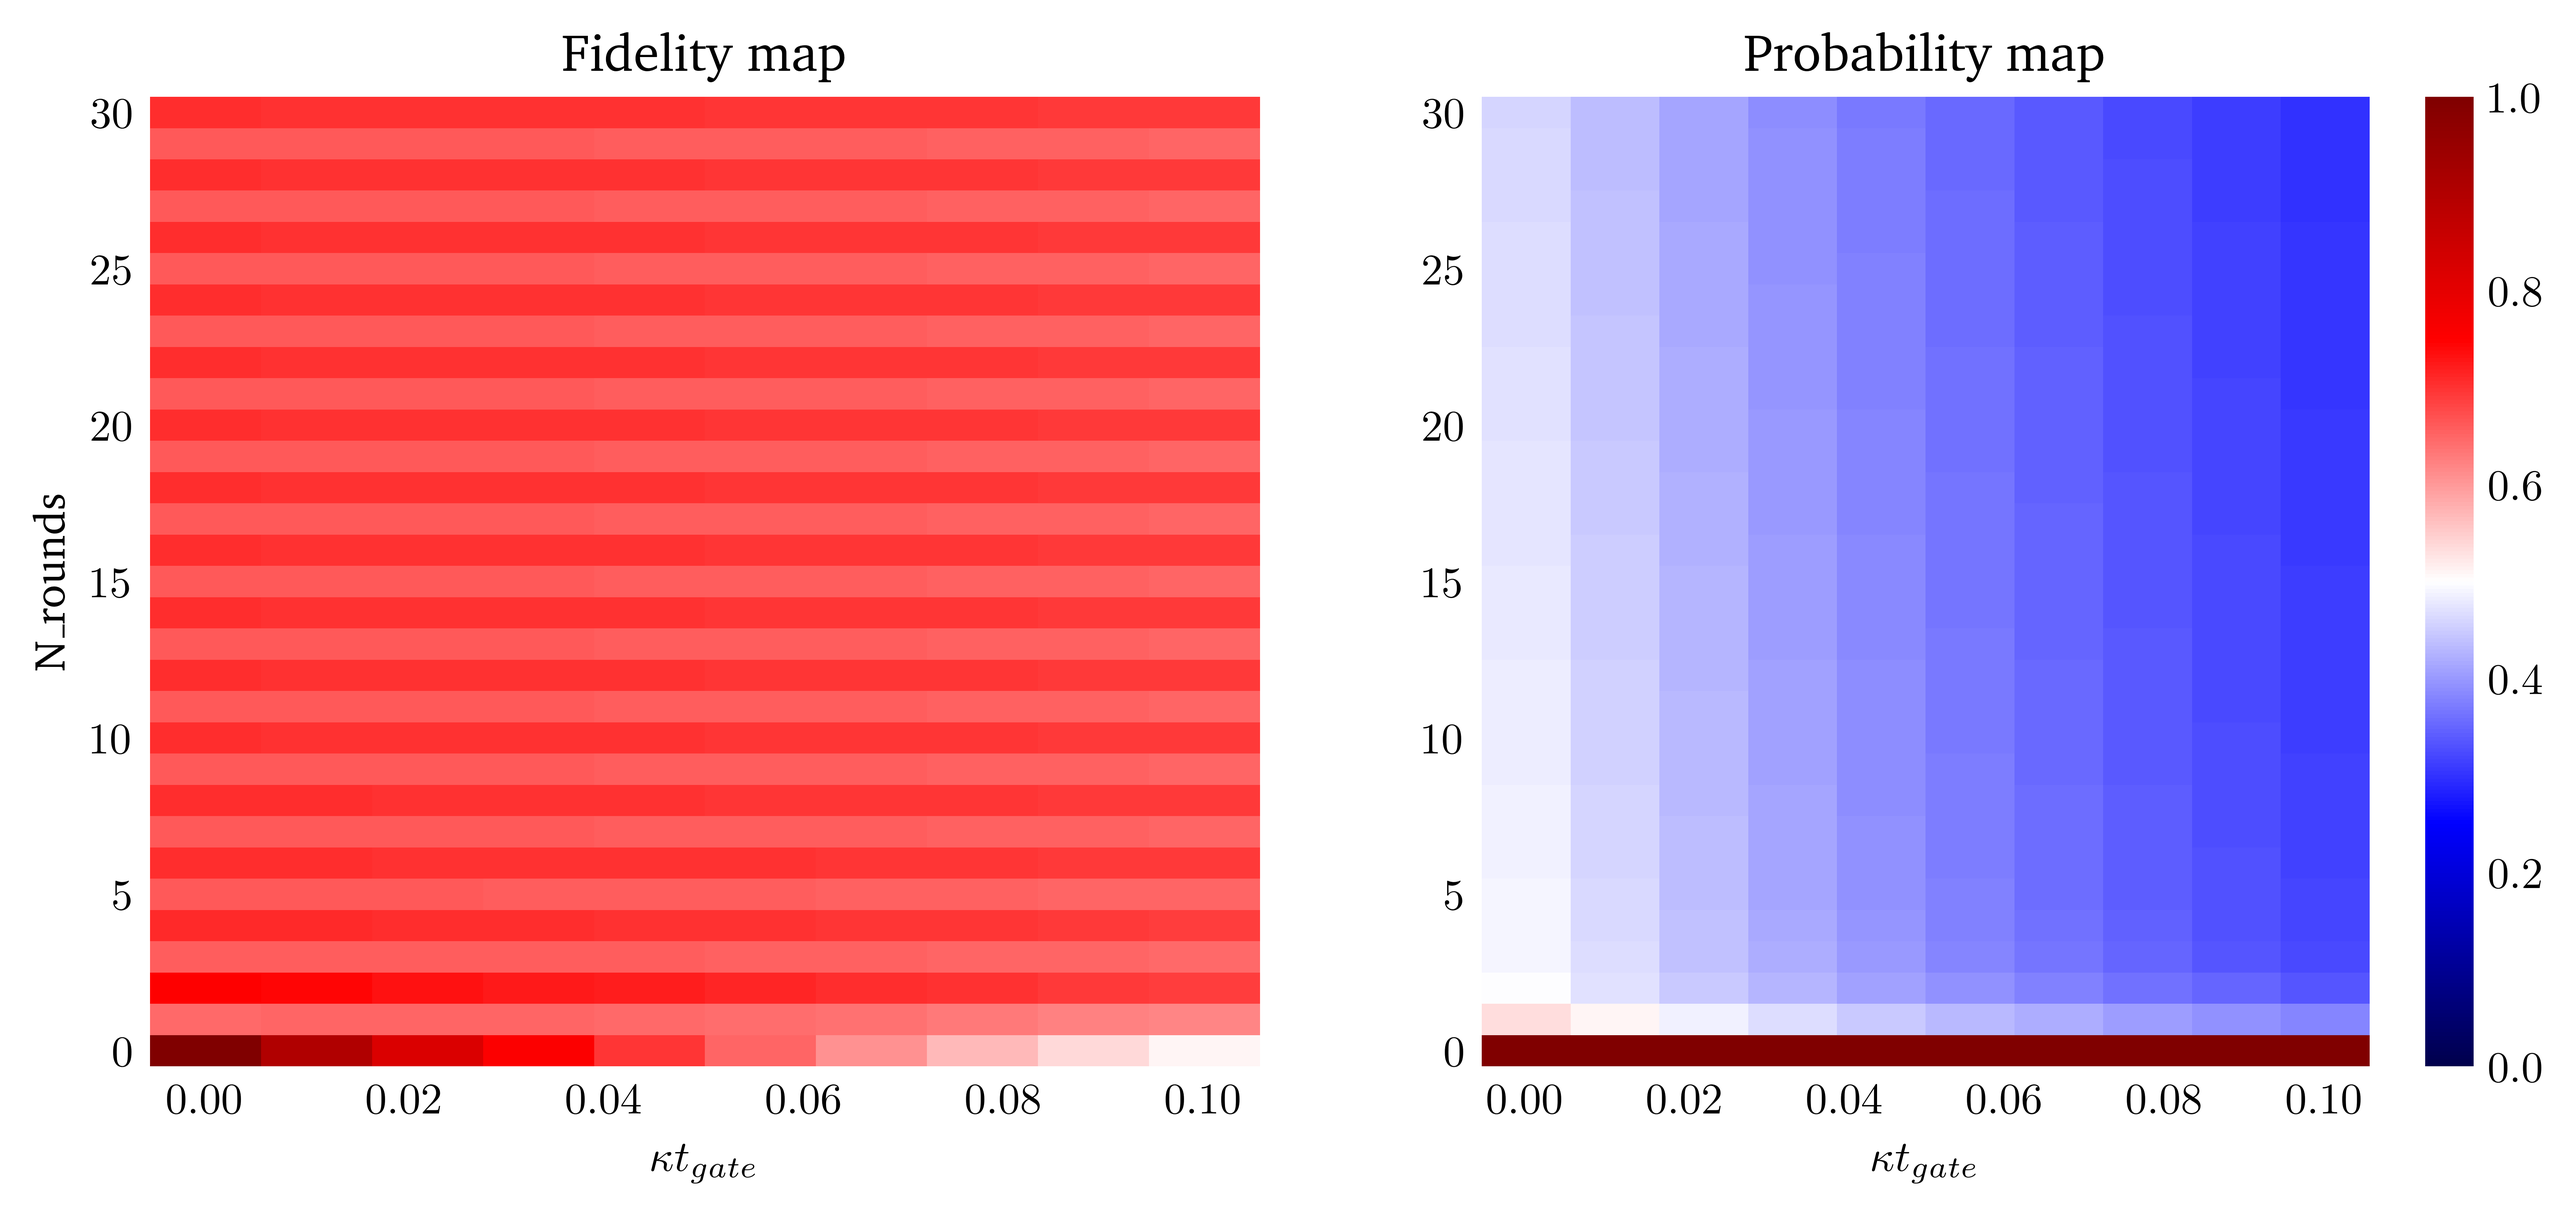
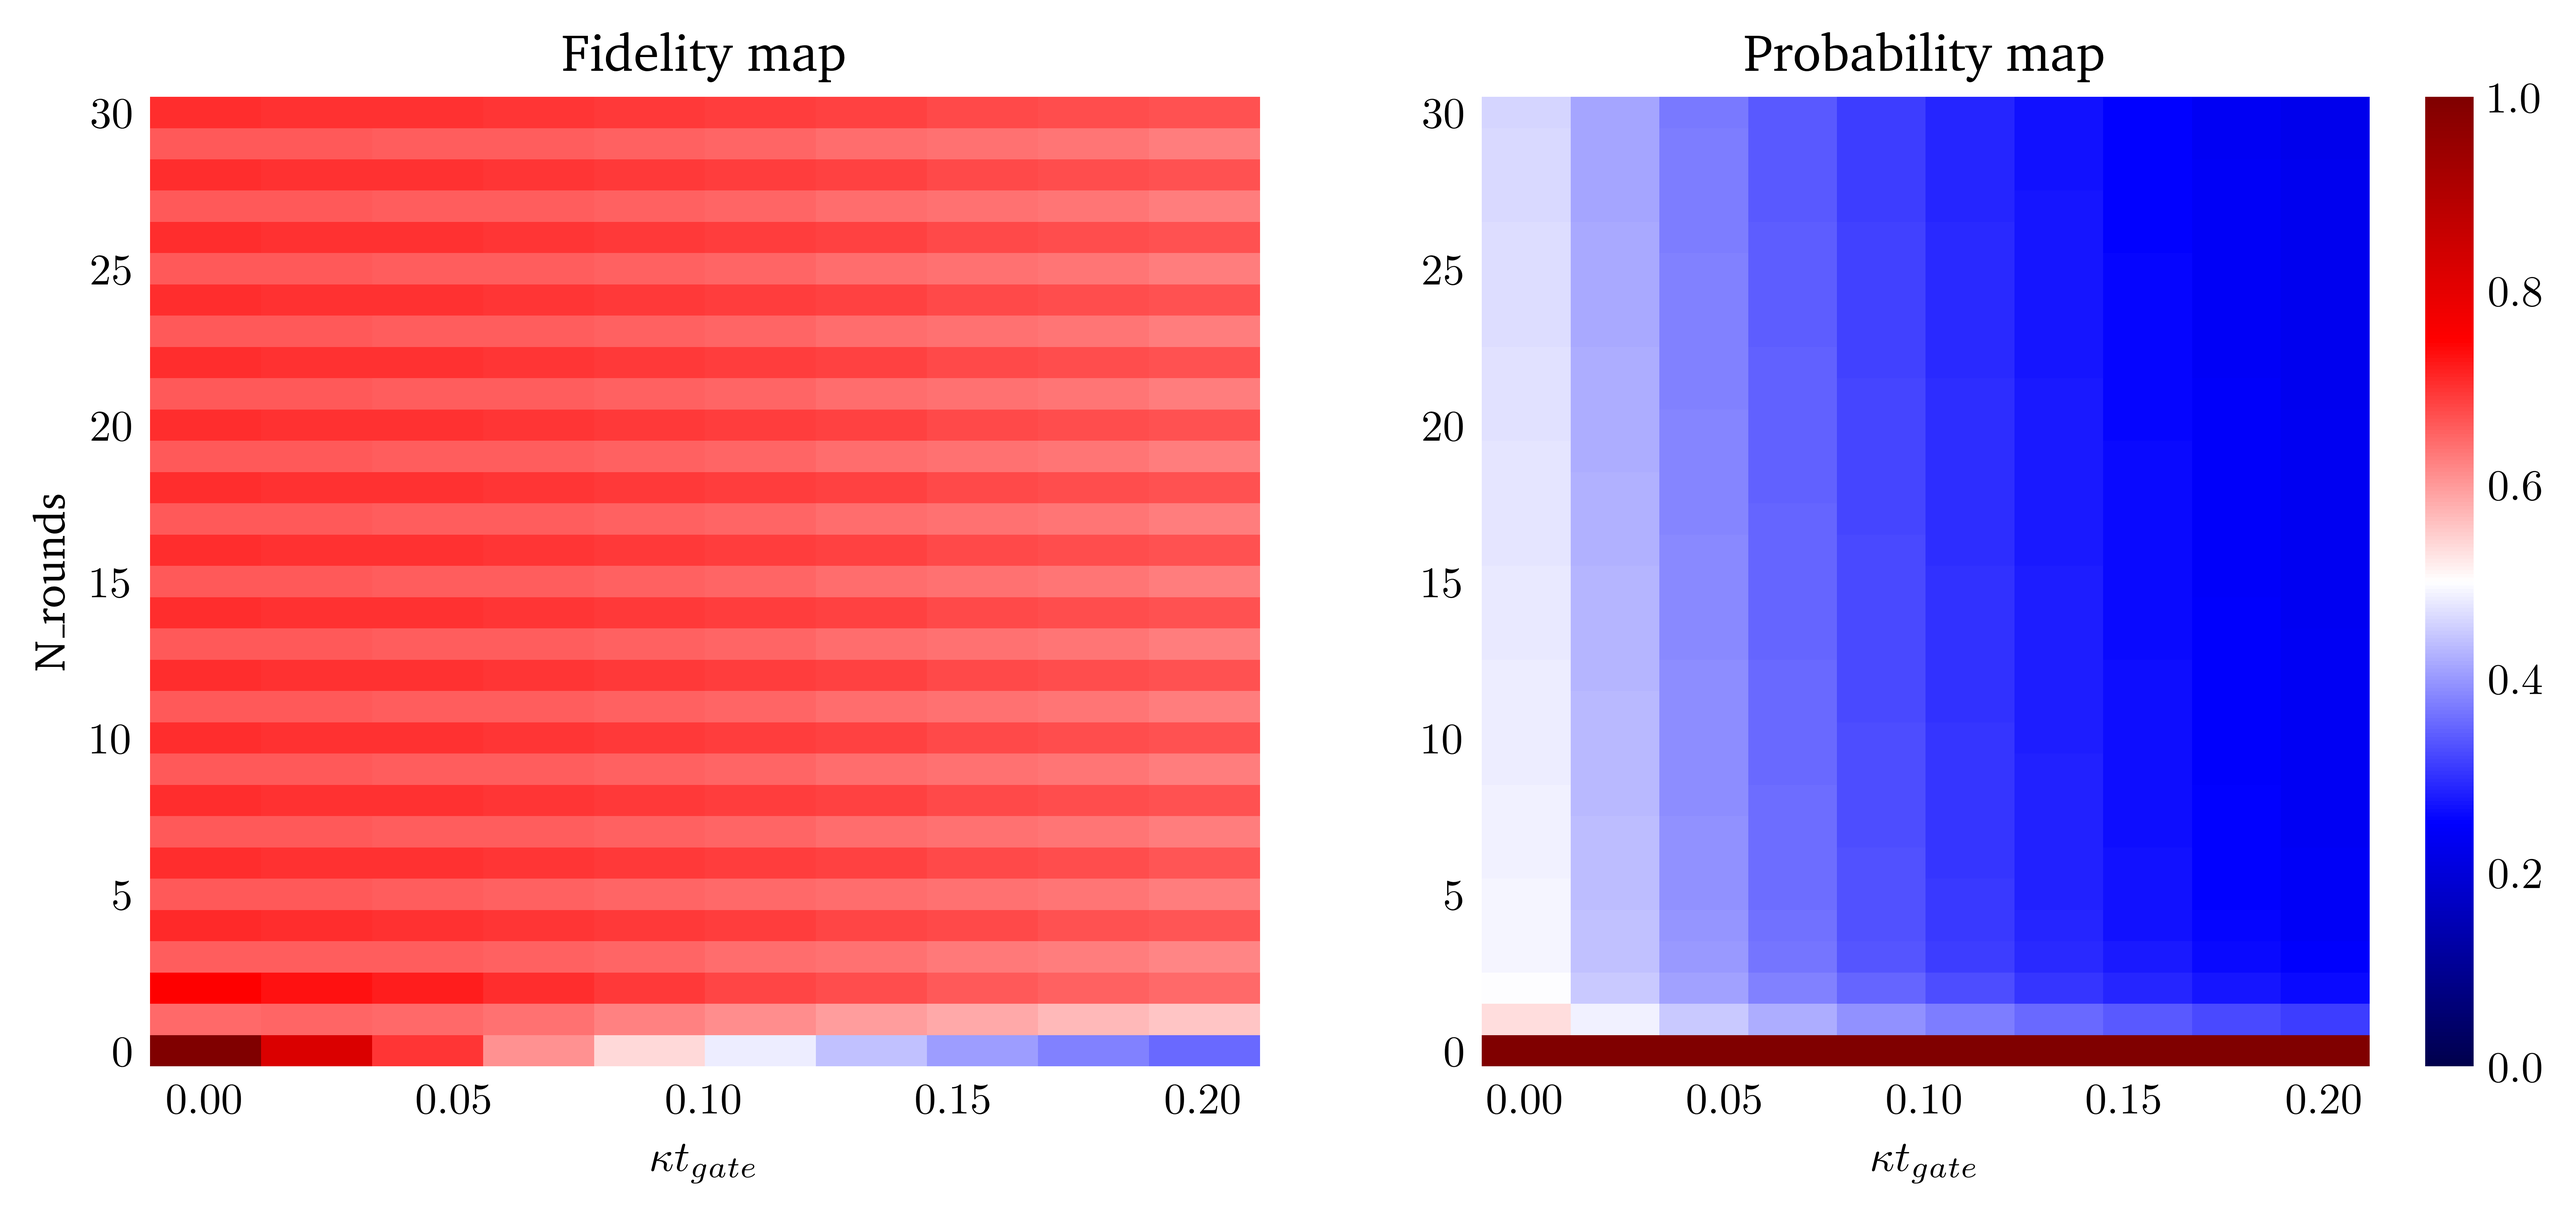
avgoption

diff --git a/stage_baptiste/homemades/KrausOperator_JV.py b/stage_baptiste/homemades/KrausOperator_JV.py
@@ -137,7 +137,7 @@ def color_maps(GKP_obj,H,t_gate,max_error_rate,max_N_rounds,t_num=10,kap_num=10,
             The number of samples to generate to compare error rates.
         N_rounds_steps: int
             The step between the number of error correcting rounds to compare.
-        mode: string ('random' or 'gg')
+        mode: string ('random' or 'gg' or 'avg')
             Decides wether or not you correct randomly or only with Bgg detection.
             If only Bgg detection, a probability map will aslo be plotted.
         superposition_state: Qobj (ket)
@@ -163,8 +163,8 @@ def color_maps(GKP_obj,H,t_gate,max_error_rate,max_N_rounds,t_num=10,kap_num=10,
 
     """
     # dealing with a simple GKP state or a superposition of states.
-    if mode not in ['random','gg']:
-        raise ValueError("You have to choose a mode between 'random' or 'gg'.")
+    if mode not in ['random','gg','avg']:
+        raise ValueError("You have to choose a mode between 'random' or 'gg' or 'avg.")
     if superposition_state:
         if GKP_obj:
             raise ValueError("You have to choose between a normal GKP state or a superposition.")
@@ -187,7 +187,6 @@ def color_maps(GKP_obj,H,t_gate,max_error_rate,max_N_rounds,t_num=10,kap_num=10,
         dim = the_GKP.hilbert_dim
     # setting all good parameters
     Y = displace(dim, np.sqrt(pi/2)*(1+1j))  # X gate for a qubit
-    rho_init = state*state.dag()
     t_list = np.linspace(0, t_gate, t_num)
     kap_max = max_error_rate/t_gate
     kap_list = np.linspace(0,kap_max,kap_num)
@@ -255,3 +254,16 @@ def color_maps(GKP_obj,H,t_gate,max_error_rate,max_N_rounds,t_num=10,kap_num=10,
     if show:
         plt.show()
     return
+
+
+# faire des moyennes des randoms
+
+# *** notion de trajectoire = une mesure d'un phénomène probabiliste
+# donc plusieurs trajectoires permettent de calculer une moyenne ***
+
+# faire la moyenne des randoms simplement en additionnant les quatres outcomes possibles
+
+# faire le circuit sBs analytiquement
+
+# voir pourquoi ça devient pas plus pâle
+

diff --git a/stage_baptiste/projects/Kraus_codes/color_maps/colors_maps_analysis.py b/stage_baptiste/projects/Kraus_codes/color_maps/colors_maps_analysis.py
@@ -20,9 +20,9 @@ N_op = a.dag()*a
 
 GKP_obj = GKP(d,j,delta,hilbert_dim)
 H = N_op**2
-tgate = pi/16
-max_error_rate = 0.10
+tgate = pi/8
+max_error_rate = 0.20
 max_N_rounds = 30
-fig_name = "pi_o_16_random_cmap"
+fig_name = "sqrtH_gg_cmap"
 fig_path = f"/Users/jeremie/Desktop/Stage_Baptiste/stage_baptiste/projects/Kraus_codes/color_maps/figs/"
-color_maps(GKP_obj, H, tgate, max_error_rate, max_N_rounds, kap_num=10, mode='random',fig_name=fig_name, fig_path=fig_path)
+color_maps(GKP_obj, H, tgate, max_error_rate, max_N_rounds, kap_num=10, mode='gg',fig_name=fig_name, fig_path=fig_path)

diff --git a/stage_baptiste/homemades/KrausOperators_original.py b/stage_baptiste/homemades/KrausOperators_original.py
@@ -70,6 +70,7 @@ psi = basis(Ncav)  # Test by starting from vacuum, always measuring g
 fig, axes = plt.subplots(3, 3, figsize=(12,12))
 for i in range(9):
     psi = (Kgg*psi).unit()  # Important to normalize the state as this is not a unitary evolution
+    print(f"fidelity {fidelity(psi,basis(Ncav))}")
     Wpsi = wigner(psi, xvec, xvec)
     wlim = abs(Wpsi).max()
     axes[i%3,i//3].contourf(xvec, xvec, Wpsi, 100, norm=mpl.colors.Normalize(-wlim, wlim),cmap=mpl.colormaps['RdBu'])
